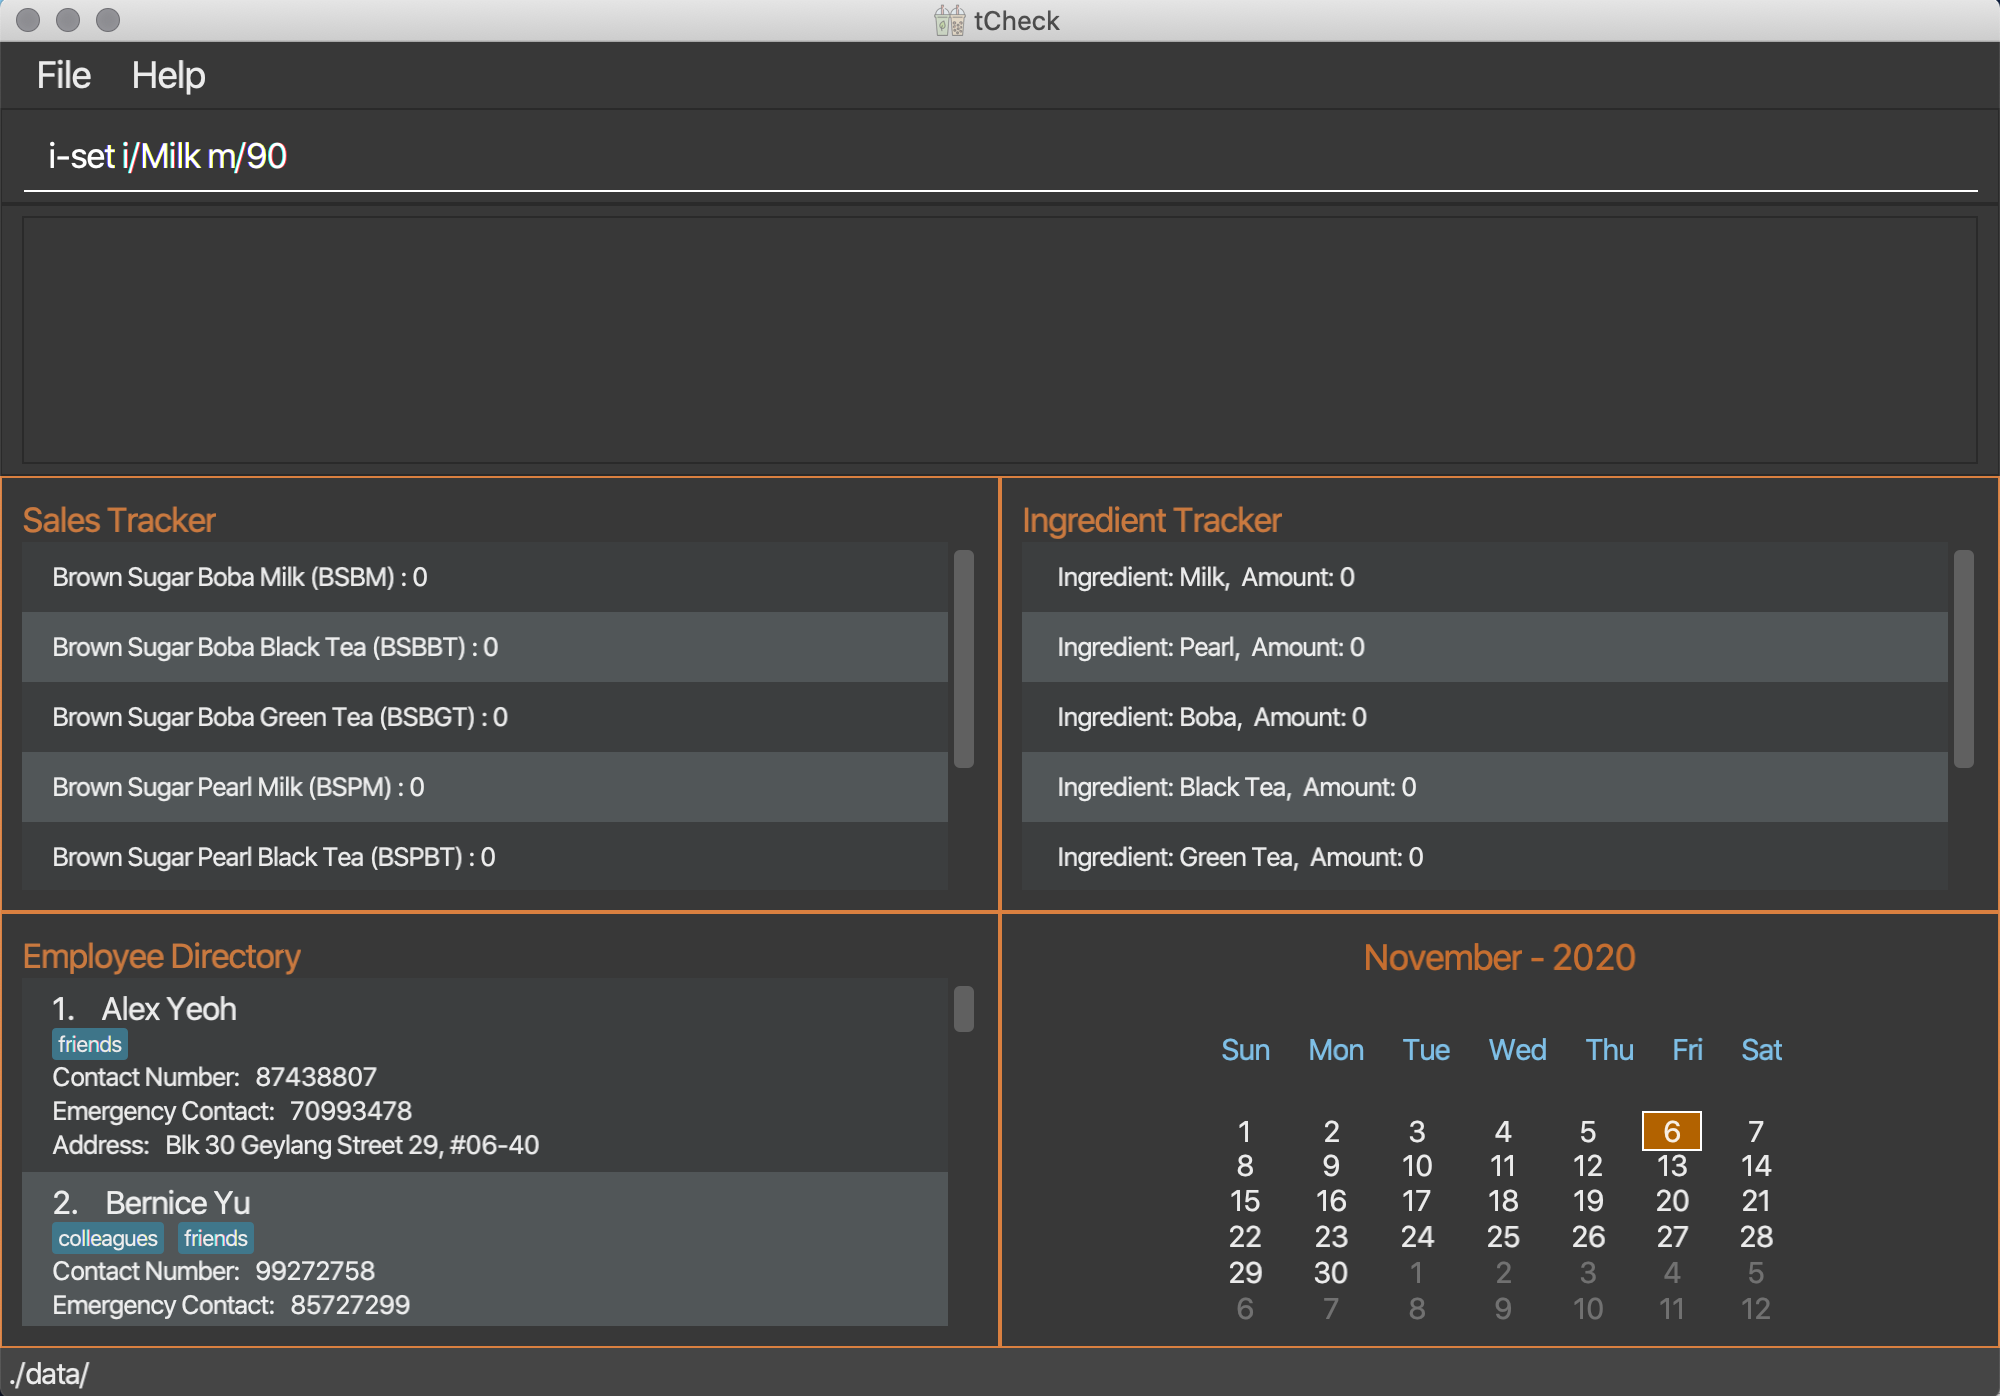
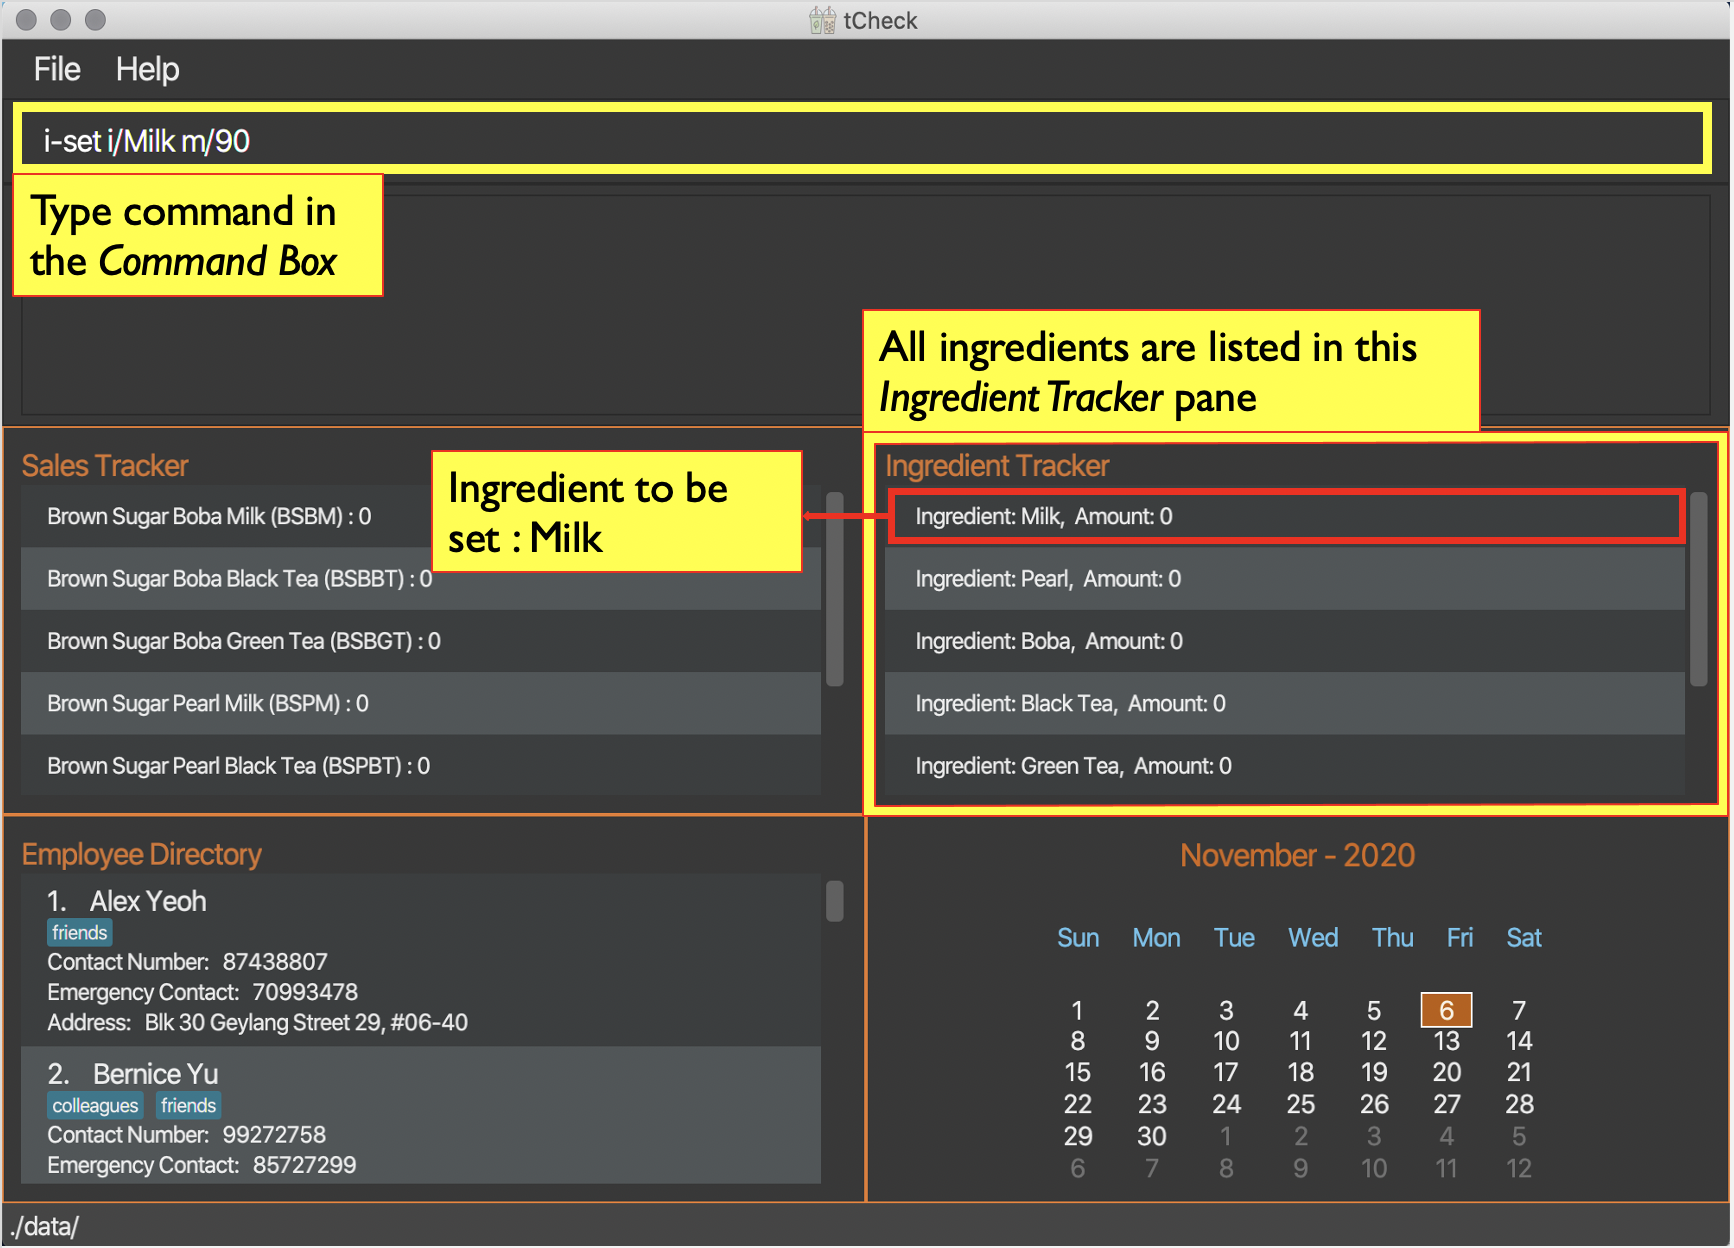
Update step bu step guide

diff --git a/docs/UserGuide.md b/docs/UserGuide.md
@@ -329,7 +329,7 @@ You are able to view data related to ingredients tracking in the Ingredient Trac
 
 <div style="page-break-after: always;"></div>
 
-#### 4.2.1. Setting one ingredient's level : `i-set`
+#### 4.2.1. Setting one ingredient's level : `i-set` <a name="i-set"></a>
 
 Sets the level of one single ingredient predefined in the ingredient book to the specified amount.
 
@@ -353,35 +353,46 @@ Example:
 Let's say you want to set the ingredient Milk's level to 90 L. 
 You can follow these instructions:
 
-1. Type `i-set i/Milk m/90` into the _Command Box_.
-2. Press "Enter" on your keyboard to execute the command.
+1. Type `i-set i/Milk m/90` into the _Command Box_ and press "Enter" on your keyboard to execute the command.
 
-Outcome:
-
-1. The _Result Display_ will show a success message.
-2. You can now see that tCheck has updated Milk's level to 90 L in The Ingredient Tracker inside the _Main View_.
-
-<div style="page-break-after: always;"></div>
-
-Before the execution:
+Before the execution:<br>
 ![IngredientSetCommand](images/IngredientSetCommand.png)
 
 _Figure 6a. A screenshot showing the view before executing `i-set` command_
 
-After the execution:<br>
+<div style="page-break-after: always;"></div>
+
+Outcome (After the execution):
+
+1. The _Result Display_ will show a success message.
+
 ![IngredientSetCommandResultDisplay](images/IngredientSetCommandResultDisplay.png)
 
-_Figure 6b. A screenshot showing the outcome of an `i-set` command_
+_Figure 6b. A screenshot showing the success message of an `i-set` command_
+
+2. You can now see that tCheck has updated Milk's level to 90 L in The Ingredient Tracker inside the _Main View_.
+
+![IngredientSetCommandUpdate](images/IngredientSetCommandUpdate.png)
+
+_Figure 6c. A screenshot showing the outcome of an `i-set` command_
 
 <div style="page-break-after: always;"></div>
 
-#### 4.2.2. Setting all ingredients' levels to different specified amounts : `i-set-all`
+#### 4.2.2. Setting all ingredients' levels to different specified amounts : `i-set-all` <a name="i-set-all"></a>
 
 Sets all ingredients' levels to different specified amounts according to user inputs.
 
 Format: `i-set-all M/AMOUNT_FOR_MILK P/AMOUNT_FOR_PEARL B/AMOUNT_FOR_BOBA L/AMOUNT_FOR_BLACK_TEA G/AMOUNT_FOR_GREEN_TEA S/AMOUNT_FOR_BROWN_SUGAR`
 
 * Sets all ingredients' levels as such : Milk : `AMOUNT_FOR_MILK` L, Pearl : `AMOUNT_FOR_PEARL` KG, Boba : `AMOUNT_FOR_BOBA` KG, Black Tea : `AMOUNT_FOR_BLACK_TEA` L, Green Tea: `AMOUNT_FOR_GREEN_TEA`, Brown Sugar : `AMOUNT_FOR_BROWN_SUGAR` KG.
+
+<div markdown="block" class="alert alert-info">
+
+**:information_source: Notes:** <br>
+
+Details of the step by step instructions are omitted because they are similar to the example given above.
+
+</div>
 
 Example:
 
@@ -408,7 +419,7 @@ _Figure 7b. A screenshot showing the outcome of an `i-set-all` command_
 
 <div style="page-break-after: always;"></div>
 
-#### 4.2.3. Setting all ingredients to different levels : `i-set-default`
+#### 4.2.3. Setting all ingredients to different levels : `i-set-default` <a name="i-set-default"></a>
 
 Sets all ingredients' levels to their pre-determined default levels for a store.
 
@@ -1238,9 +1249,9 @@ Action | Format, Examples
 
 Action | Format, Examples
 -------|------------------------------
-**Set a single ingredient**  | `i-set i/INGREDIENT_NAME m/AMOUNT` <br> e.g., `i-set i/Milk m/20`
-**Set all ingredients**  | `i-set-all M/AMOUNT_FOR_MILK P/AMOUNT_FOR_PEARL B/AMOUNT_FOR_BOBA L/AMOUNT_FOR_BLACK_TEA G/AMOUNT_FOR_GREEN_TEA S/AMOUNT_FOR_BROWN_SUGAR` <br> e.g., `i-set-all M/20 P/20 B/20 L/50 G/20 S/100`
-**Set all ingredients to default**  | `i-set-default` <br> e.g., `i-set-default`
+[**Set a single ingredient**](#i-set)  | `i-set i/INGREDIENT_NAME m/AMOUNT` <br> e.g., `i-set i/Milk m/20`
+[**Set all ingredients**](#i-set-all)  | `i-set-all M/AMOUNT_FOR_MILK P/AMOUNT_FOR_PEARL B/AMOUNT_FOR_BOBA L/AMOUNT_FOR_BLACK_TEA G/AMOUNT_FOR_GREEN_TEA S/AMOUNT_FOR_BROWN_SUGAR` <br> e.g., `i-set-all M/20 P/20 B/20 L/50 G/20 S/100`
+[**Set all ingredients to default**](#i-set-default)  | `i-set-default` <br> e.g., `i-set-default`
 **List**| `i-list`
 **Find**| `i-find KEYWORD [MORE_KEYWORDS]`  <br> e.g., `i-find milk sugar`
 **Reset all ingredients' levels to zero**| `i-reset-all`
